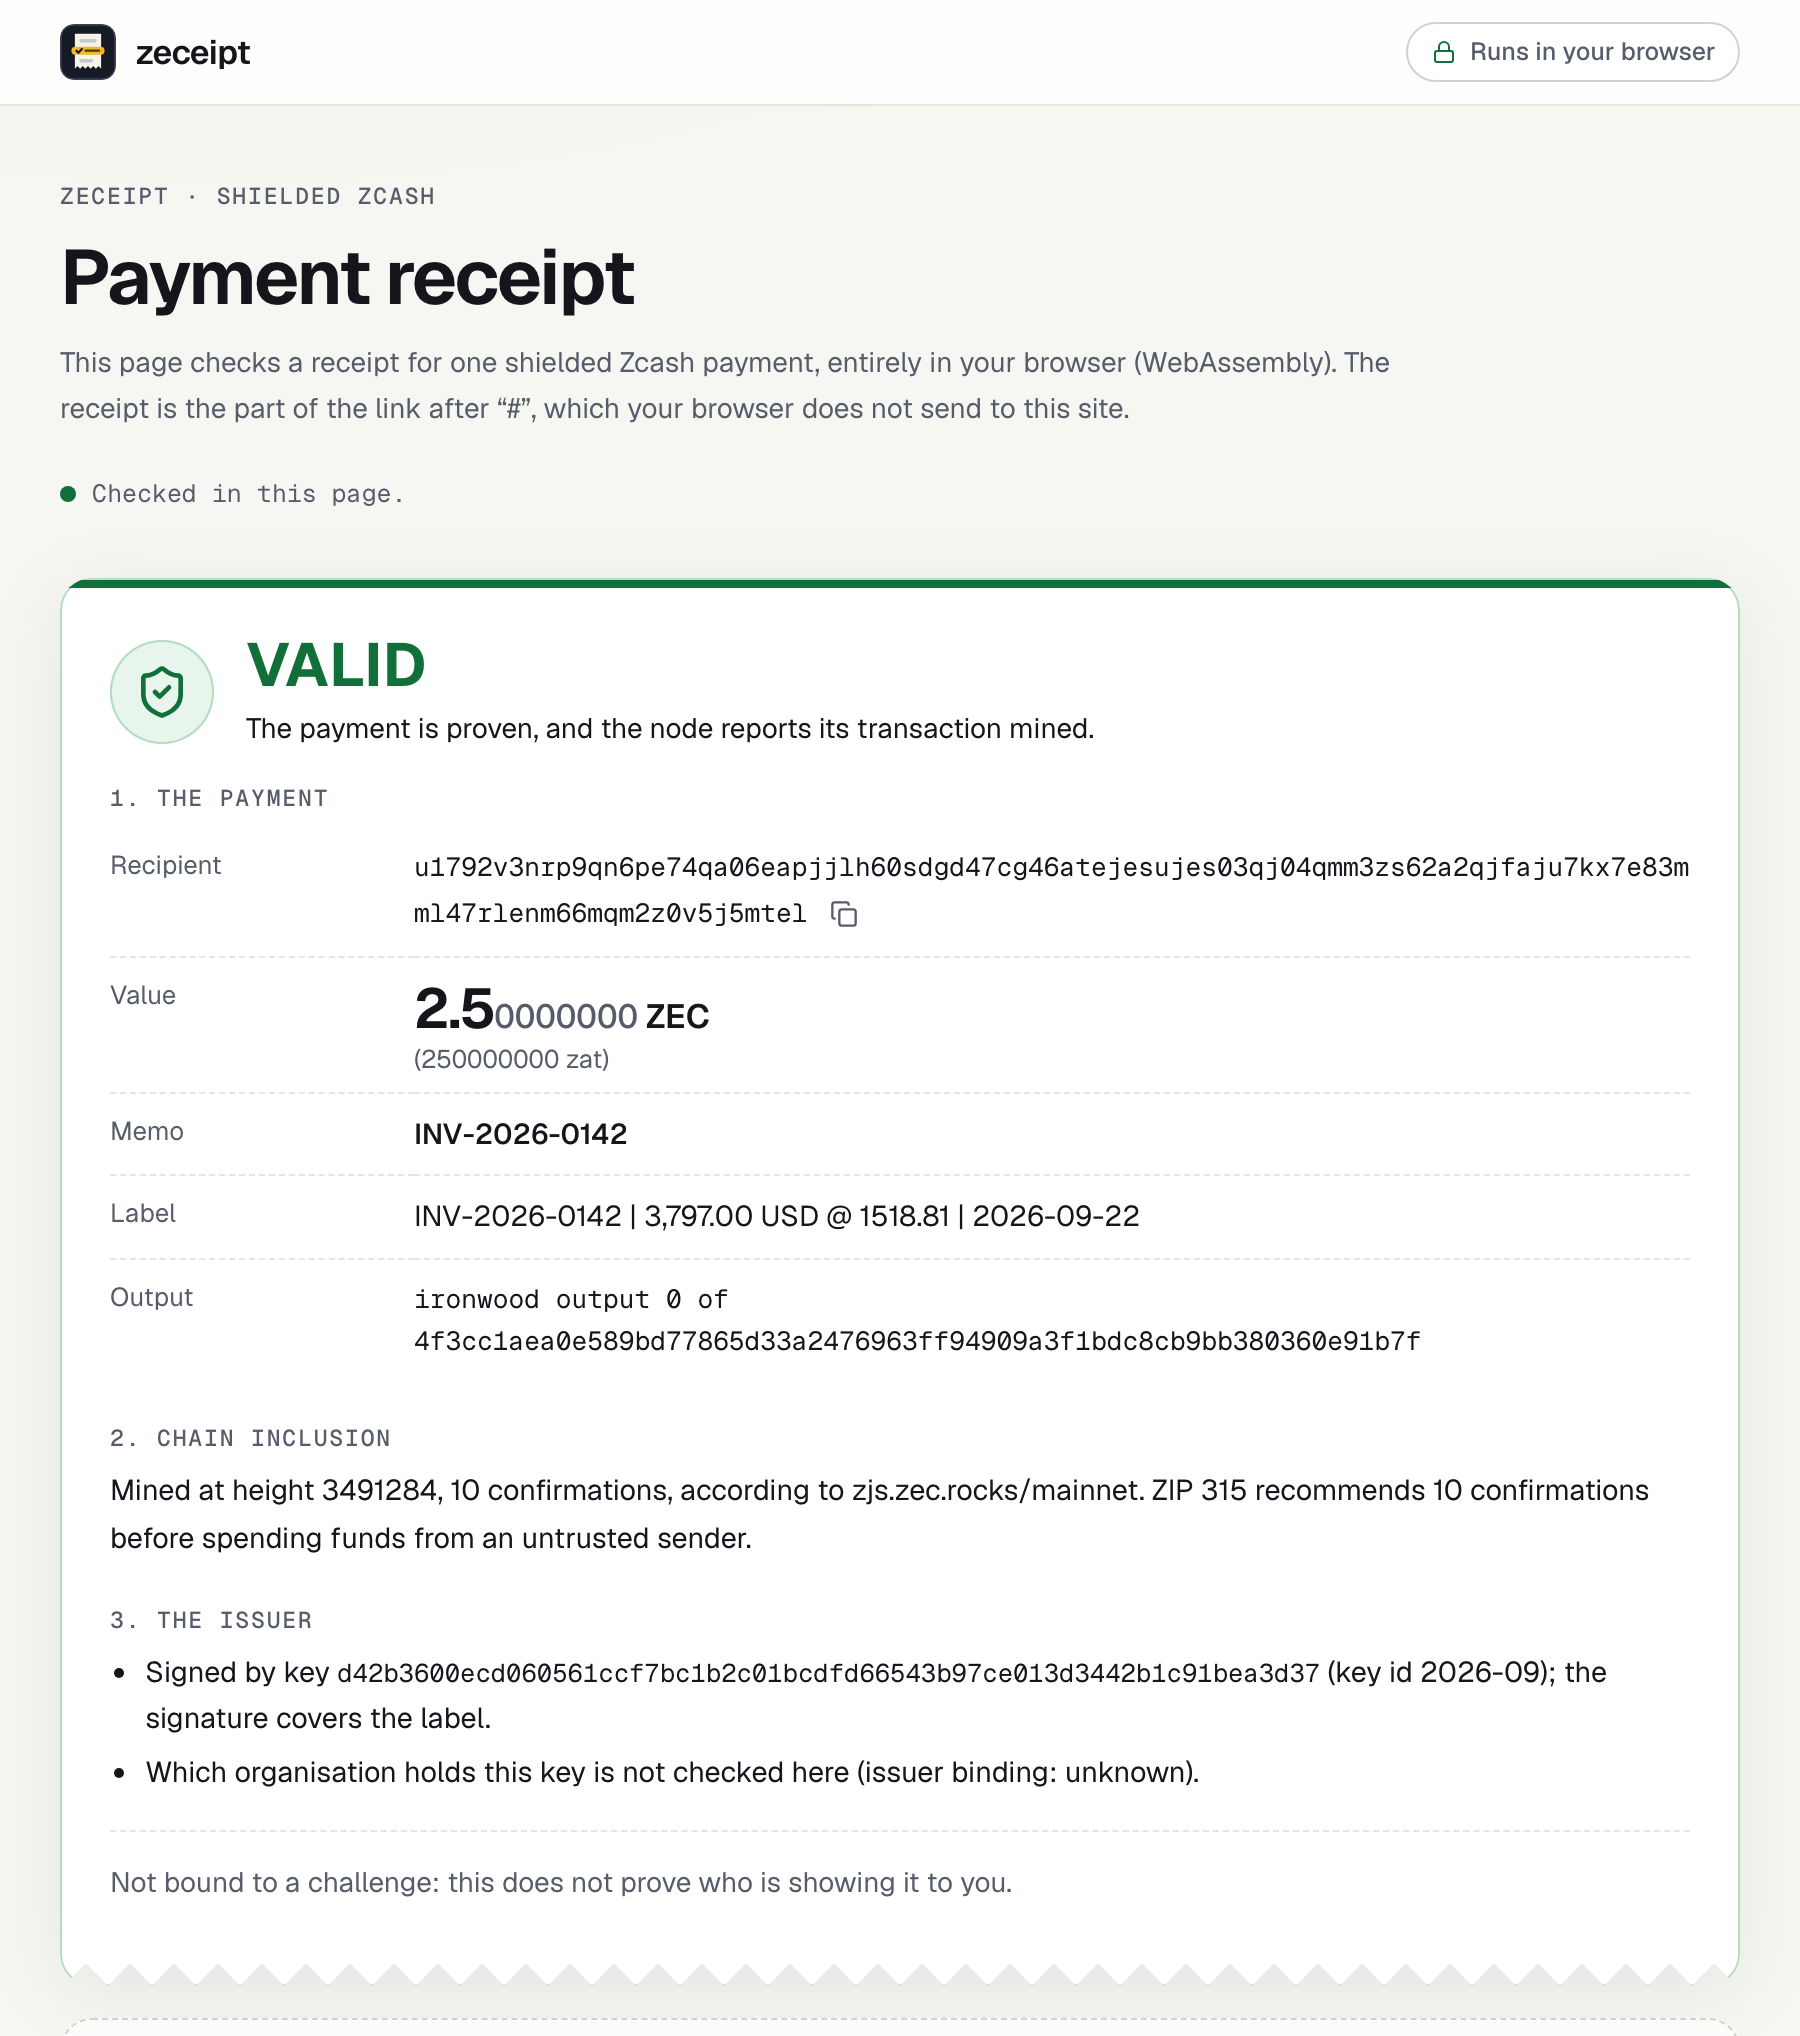
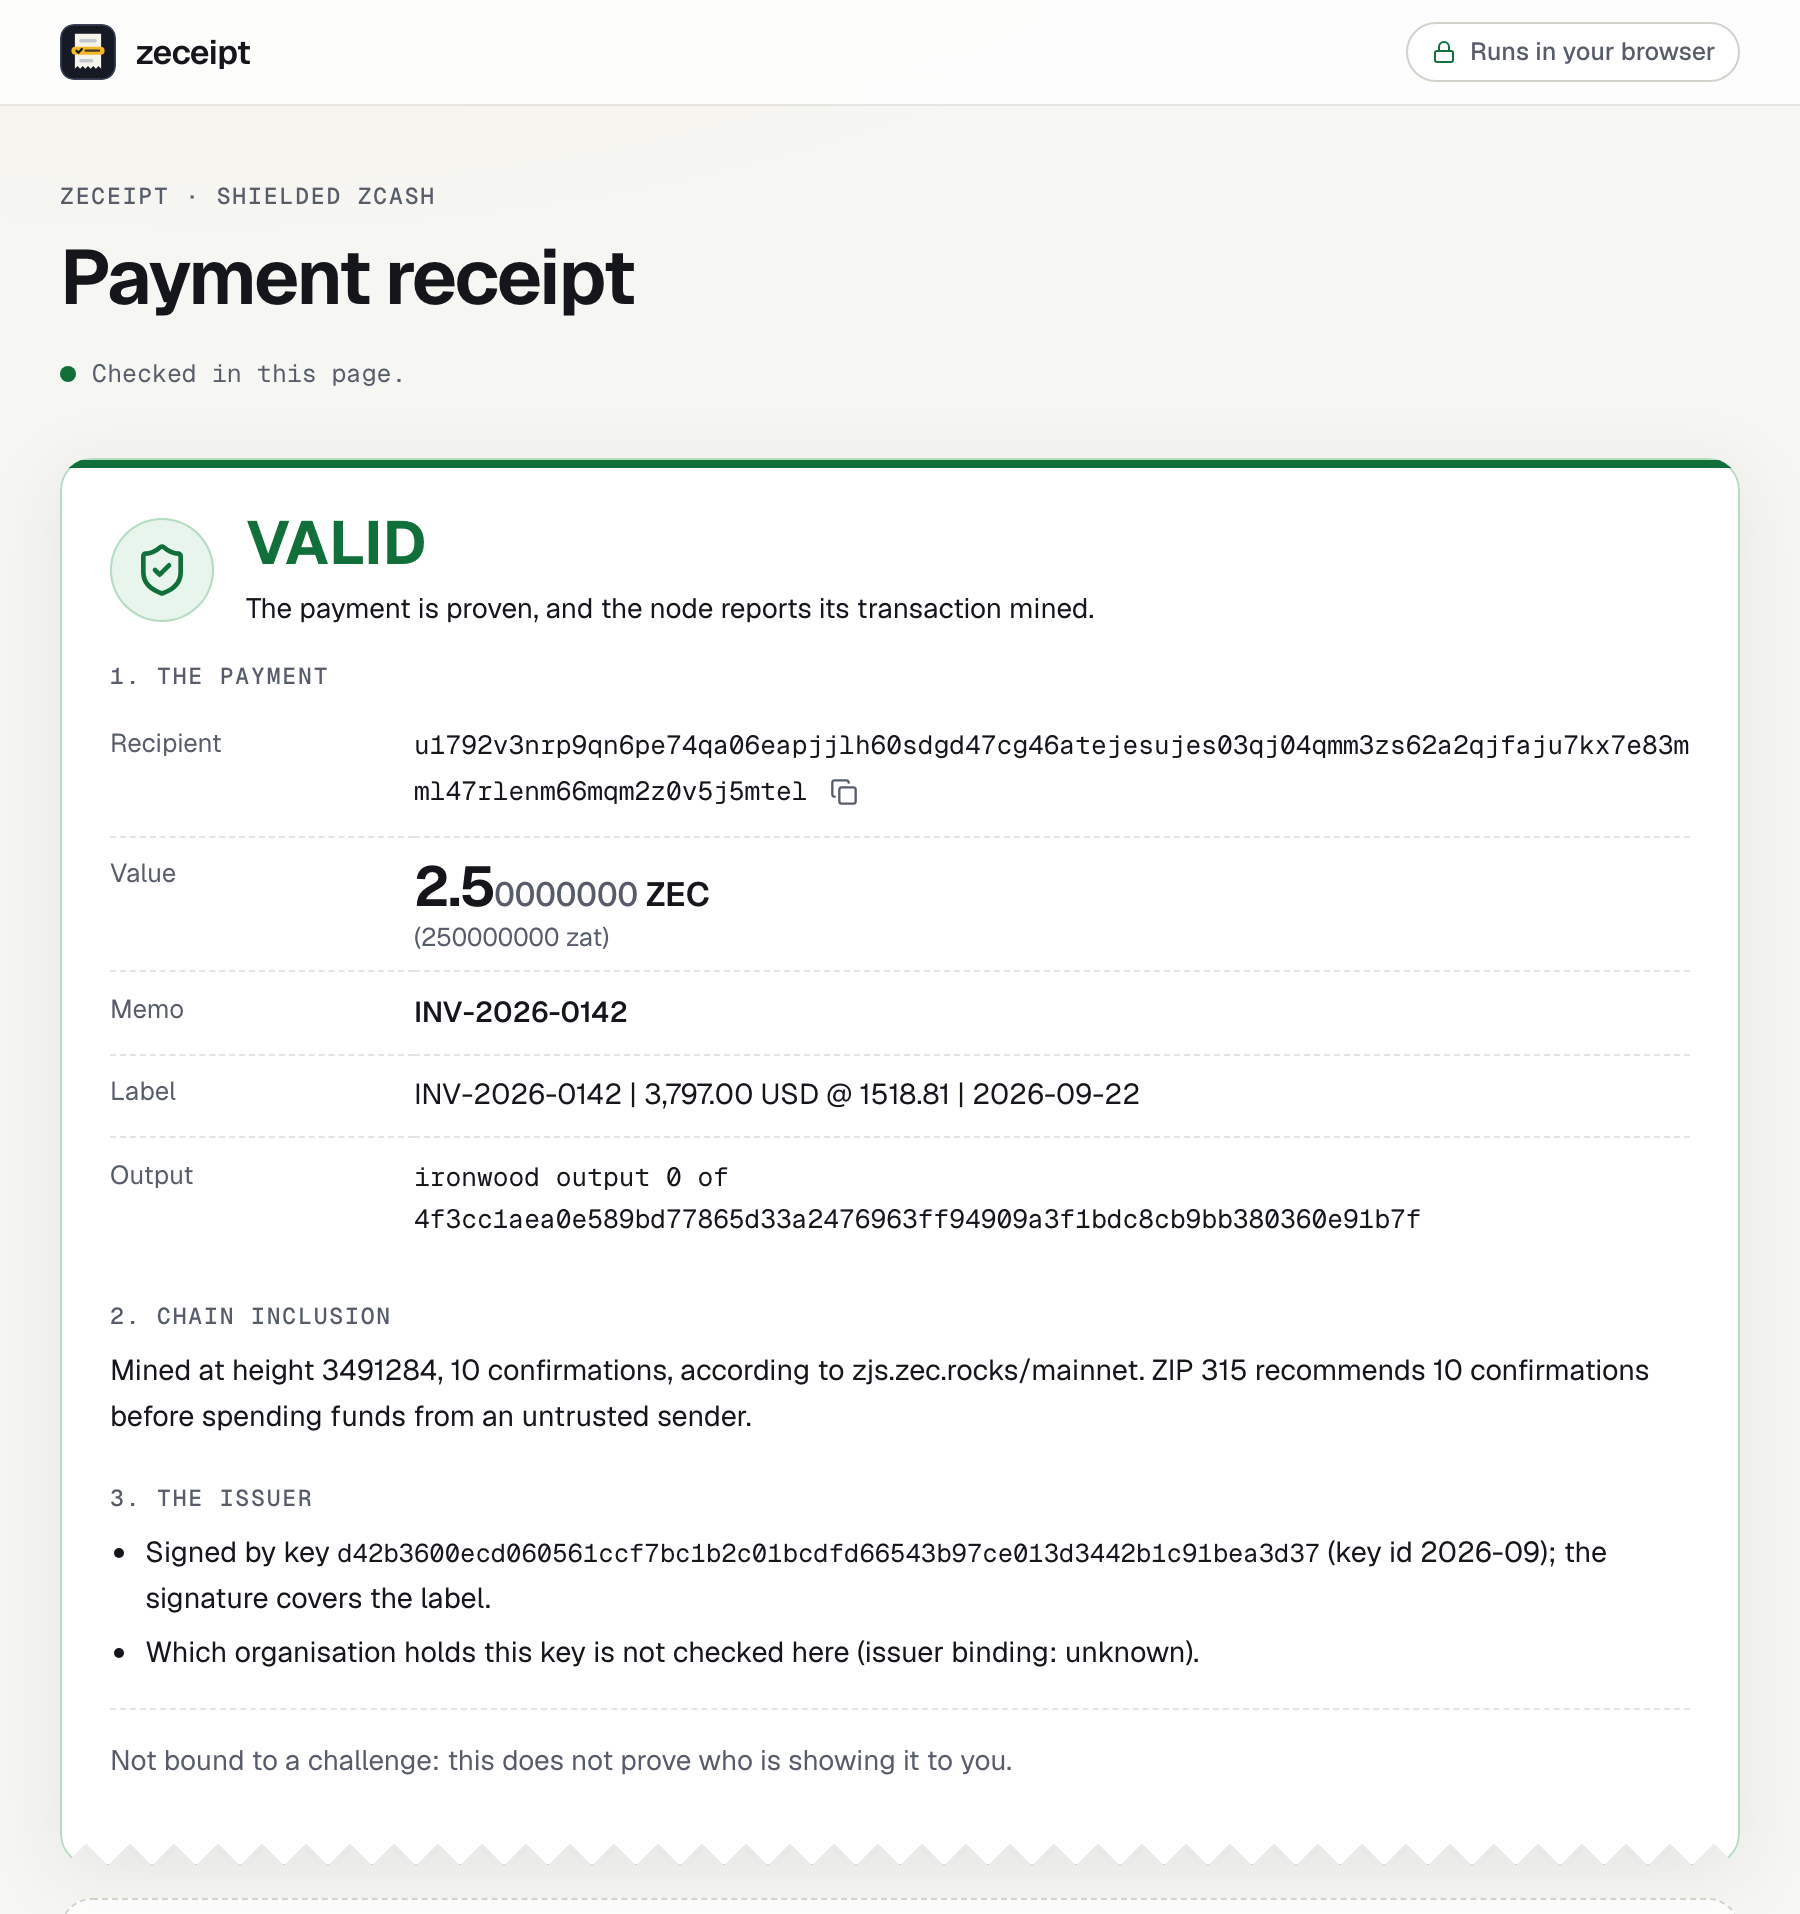
F round 5: named only while scrolling, a printed cut line, exact sample wording
- TableCard adds and removes aria-label together with role and tabindex
  (a plain div may not be named; each table keeps its caption)
- Print: the slip ends in a dashed cut line (the white teeth vanished on
  white paper); still one page
- One chevron for every disclosure (the node note now matches the claims
  fold and the console panels)
- view.js: a "sample" source ("the synthetic sample, which is on no chain")
  for the demo's sample button; verify.mjs checks it
- Once a result shows: the lede hides and "Transaction fetched/loaded"
  hides, so the verdict sits higher and nothing is said twice
- Payables filter: tighter pills on phones (all five fit at 390 px) and
  the table cards' scroll shadows (.scroll-shadows)

diff --git a/packages/verify/r/page.css b/packages/verify/r/page.css
@@ -196,17 +196,14 @@ h1 { margin: 0; font-size: clamp(1.8rem, 1.2rem + 2.2vw, 2.4rem); font-weight: 6
 .pill.tone-danger { color: var(--danger); background: var(--danger-soft); border-color: var(--danger-line); }
 /* A link with no receipt, or not a receipt at all: what a valid result proves is beside the point (review F round 3). */
 body[data-state="empty"] .scope, body[data-state="unreadable"] .scope { display: none; }
+/* Once a result is shown, the intro has done its job: the verdict moves up (review F round 5). */
+body[data-state="checked"] .lede { display: none; }
 .verdict-detail { margin-top: 0.75rem; font-family: var(--mono); font-size: 0.75rem; color: var(--muted); overflow-wrap: anywhere; }
 /* What the receipt claims: not a verdict, so a quieter, dashed frame */
 .claims { border-style: dashed; border-color: var(--line-strong); box-shadow: none; background: color-mix(in srgb, var(--surface) 70%, transparent); }
 /* Once checked, the claims fold away (page.js): the verdict above already says them. */
 details.claims > summary { cursor: pointer; list-style: none; margin-bottom: 0; }
 details.claims > summary::-webkit-details-marker { display: none; }
-details.claims > summary h2::after {
-  content: ""; display: inline-block; width: 0.45rem; height: 0.45rem; margin: 0 0 0.2rem 0.6rem;
-  border-right: 1.5px solid var(--muted); border-bottom: 1.5px solid var(--muted); transform: rotate(-45deg); transition: transform 150ms ease;
-}
-details.claims[open] > summary h2::after { transform: rotate(45deg); }
 details.claims[open] > summary { margin-bottom: 0.6rem; }
 table.kv tr[data-failed] td { color: var(--danger); font-weight: 550; }
 table.kv tr[data-failed] td:first-child::after { content: " · did not match"; font-weight: 500; }
@@ -283,8 +280,12 @@ input[type="file"]::file-selector-button:hover { background: var(--surface-2); }
 .note { padding-left: 0.9rem; border-left: 2px solid var(--line-strong); font-size: 0.8125rem; }
 .source-more > summary { cursor: pointer; width: fit-content; font-size: 0.8125rem; color: var(--muted); list-style: none; }
 .source-more > summary::-webkit-details-marker { display: none; }
-.source-more > summary::after { content: " +"; }
-.source-more[open] > summary::after { content: " −"; }
+.source-more > summary::after, details.claims > summary h2::after {
+  content: ""; display: inline-block; width: 0.45rem; height: 0.45rem; margin: 0 0 0.2rem 0.6rem;
+  border-right: 1.5px solid var(--muted); border-bottom: 1.5px solid var(--muted); transform: rotate(-45deg); transition: transform 150ms ease;
+}
+.source-more > summary::after { width: 0.4rem; height: 0.4rem; margin-bottom: 0.1rem; }
+.source-more[open] > summary::after, details.claims[open] > summary h2::after { transform: rotate(45deg); }
 /* Once checked, the transaction's source is a detail: a compact card (page.js sets data-checked). */
 .source[data-checked] { padding-top: 0.9rem; padding-bottom: 0.9rem; }
 .source[data-checked] h2 { font-size: 0.9rem; margin-bottom: 0.4rem; }
@@ -395,8 +396,14 @@ input[type="file"]::file-selector-button:hover { background: var(--surface-2); }
   /* The transaction's source is how you checked, not what you print. */
   #receipt > .card:not(.claims) { display: none !important; }
   .card, #outcome { box-shadow: none; }
-  /* No shadow on paper; a transparent filter keeps the slip composited, so its torn-edge mask prints. */
-  .slip-wrap { filter: drop-shadow(0 0 0 transparent) !important; }
+  /* On paper the white teeth vanish into the white page, so the slip ends in a dashed cut line instead. */
+  .slip-wrap { filter: none !important; }
+  .slip-wrap #outcome:is(.ok, .pending) {
+    -webkit-mask: none; mask: none;
+    padding-bottom: 1.35rem;
+    border-bottom: 2px dashed var(--line-strong);
+    border-radius: var(--radius-xl) var(--radius-xl) 0 0;
+  }
   #outcome, .result { outline: none !important; }
   /* Folded claims (they matched) print as nothing rather than a stub to click. */
   details#claims:not([open]) { display: none !important; }

diff --git a/packages/verify/demo/index.html b/packages/verify/demo/index.html
@@ -90,14 +90,15 @@ initVerifier().then((v) => { status.textContent = "Ready: verification runs in t
 // What a node said about the bytes now in the box: green only if they are exactly what it served and it reports them
 // mined, as on the receipt page; anything pasted or loaded from a file is amber.
 let fetched = null; // { hex, chain, endpoint }: what a node served
-let fromFile = null; // the text of the last file loaded (the sample is one)
+let fromFile = null; // the text of the last file loaded
+let fromSample = null; // the sample transaction's text
 
 // The committed synthetic fixture (not on any chain): a signed receipt and the transaction it opens.
 $("sample").addEventListener("click", async () => {
   const [receipt, raw] = await Promise.all(["fixtures/synthetic-receipt-bearer.json", "fixtures/synthetic-ironwood.hex"].map((f) => fetch(f).then((r) => r.text())));
   $("receipt").value = receipt.trim();
   $("rawtx").value = raw.trim();
-  fromFile = raw.trim();
+  fromSample = raw.trim();
   status.textContent = "Sample loaded: a synthetic transaction, on no chain. Press Verify locally.";
 });
 
@@ -143,7 +144,7 @@ $("verify").addEventListener("click", () => {
   // The page's own view model (r/view.js outcome), so the rows, their order, the numbered parts and the wording are
   // the receipt page's. The source is what put exactly these bytes in the box: a node, a file, or typing/pasting.
   const bytes = $("rawtx").value.trim();
-  const source = fetched && fetched.hex === bytes ? { kind: "node", chain: fetched.chain, endpoint: fetched.endpoint, tip: null } : fromFile === bytes ? { kind: "file" } : { kind: "pasted" };
+  const source = fetched && fetched.hex === bytes ? { kind: "node", chain: fetched.chain, endpoint: fetched.endpoint, tip: null } : fromSample === bytes ? { kind: "sample" } : fromFile === bytes ? { kind: "file" } : { kind: "pasted" };
   const view = outcome(r, source);
   if (!view.valid) { show("bad", "INVALID", view.stageCopy, el("p", "verdict-detail", view.error)); return; }
   const payment = el("table", "kv");

diff --git a/apps/console/app/components/table-card.tsx b/apps/console/app/components/table-card.tsx
@@ -5,7 +5,7 @@ import { useEffect, useRef, type ReactNode } from "react";
 // A data table's card (slice F4). When a table is wider than its card (a phone), the card scrolls sideways: it is a
 // named, focusable region so keyboard users can scroll it, and edge shadows (globals.css .table-card) show that
 // there is more (review F round 3). The server renders it focusable, so it works without JavaScript; once the script
-// runs, a card that does not scroll stops being a Tab stop and a landmark (review F round 4).
+// runs, a card that does not scroll stops being a Tab stop, a landmark and a named element (review F rounds 4 and 5).
 export function TableCard({ label, className = "", children }: { label: string; className?: string; children: ReactNode }) {
   const ref = useRef<HTMLDivElement>(null);
   useEffect(() => {
@@ -13,19 +13,23 @@ export function TableCard({ label, className = "", children }: { label: string; 
     if (!el) return;
     const sync = () => {
       const scrolls = el.scrollWidth > el.clientWidth + 1;
+      // The name goes with the role: a plain div may not carry aria-label (ARIA 1.2; axe aria-prohibited-attr). The
+      // table inside keeps its own <caption> either way (review F round 5).
       if (scrolls) {
         el.setAttribute("tabindex", "0");
         el.setAttribute("role", "region");
+        el.setAttribute("aria-label", label);
       } else {
         el.removeAttribute("tabindex");
         el.removeAttribute("role");
+        el.removeAttribute("aria-label");
       }
     };
     sync();
     const ro = new ResizeObserver(sync);
     ro.observe(el);
     return () => ro.disconnect();
-  }, []);
+  }, [label]);
   return (
     // tabIndex 0: a scrollable region must be reachable by keyboard (WCAG 2.1.1; axe's scrollable-region-focusable).
     <div ref={ref} role="region" aria-label={label} tabIndex={0} className={`table-card ${className}`}>

diff --git a/apps/console/app/payables/page.tsx b/apps/console/app/payables/page.tsx
@@ -45,7 +45,7 @@ export default async function PayablesPage({ searchParams }: { searchParams: Pro
   const byId = new Map(recipients.map((r) => [r.id, r]));
   const tab = (k: PayableKind | undefined, label: string) => (
     <li key={k ?? "all"}>
-      <Link href={k ? `/payables?kind=${k}` : "/payables"} aria-current={k === filter ? "page" : undefined} className={`inline-flex whitespace-nowrap rounded-full px-3 py-1 text-sm font-medium transition-colors ${k === filter ? "bg-primary text-primary-fg" : "text-muted hover:bg-surface-2 hover:text-fg"}`}>
+      <Link href={k ? `/payables?kind=${k}` : "/payables"} aria-current={k === filter ? "page" : undefined} className={`inline-flex whitespace-nowrap rounded-full px-2.5 py-1 text-[0.8125rem] font-medium transition-colors sm:px-3 sm:text-sm ${k === filter ? "bg-primary text-primary-fg" : "text-muted hover:bg-surface-2 hover:text-fg"}`}>
         {label}
       </Link>
     </li>
@@ -64,7 +64,7 @@ export default async function PayablesPage({ searchParams }: { searchParams: Pro
         }
       />
       <nav aria-label="Filter by kind">
-        <ul className="inline-flex max-w-full gap-1 overflow-x-auto rounded-full border border-line bg-surface p-1 shadow-card">
+        <ul className="scroll-shadows inline-flex max-w-full gap-0.5 overflow-x-auto rounded-full border border-line p-1 shadow-card sm:gap-1">
           {tab(undefined, "All")}
           {PAYABLE_KINDS.map((k) => tab(k, KIND[k].many))}
         </ul>

diff --git a/packages/verify/r/page.js b/packages/verify/r/page.js
@@ -44,6 +44,7 @@ function render() {
   clearOutcome();
   for (const id of ["empty", "unreadable", "receipt"]) show(id, false);
   delete document.body.dataset.state;
+  $("source-status").hidden = false;
   const link = location.hash;
   if (link.length <= 1) { current = null; show("empty", true); document.body.dataset.state = "empty"; return; }
   let receipt;
@@ -128,6 +129,9 @@ function verifyNow() {
   $("source-card").dataset.checked = "";
   $("source-more").open = false;
   $("status").textContent = "Checked in this page.";
+  document.body.dataset.state = "checked";
+  // "Transaction fetched." only repeats the source card's state once the result is shown (review F round 5).
+  if (/^Transaction (fetched|loaded)/.test($("source-status").textContent)) $("source-status").hidden = true;
   $("status").dataset.state = "checked";
   show("outcome", true);
   $("outcome").focus({ preventScroll: true });

diff --git a/packages/verify/r/view.js b/packages/verify/r/view.js
@@ -60,6 +60,10 @@ export function inclusion(source) {
   if (source.kind === "file") {
     return { state: "unknown", text: "Unknown: the transaction was loaded from a file. Check the txid on an explorer or your own node." };
   }
+  if (source.kind === "sample") {
+    // The paste demo's sample (review F round 5): the committed synthetic transaction, which is on no chain.
+    return { state: "unknown", text: "Unknown: this is the synthetic sample, which is on no chain." };
+  }
   if (source.kind === "pasted") {
     // The paste demo (review F round 4): bytes typed or pasted into the page, not fetched and not from a file.
     return { state: "unknown", text: "Unknown: the transaction bytes were supplied on this page, not fetched from a node. Check the txid on an explorer or your own node." };

diff --git a/apps/console/app/globals.css b/apps/console/app/globals.css
@@ -511,8 +511,11 @@
     box-shadow: var(--shadow-card);
     padding: 0.25rem 1.25rem 0.5rem;
     overflow-x: auto;
-    /* Scroll shadows: covers that move with the content hide edge shadows that stay put, so an edge shows a shadow
-       only while there is more table beyond it (no script). */
+  }
+  /* Scroll shadows (table cards, the payables filter): covers that move with the content hide edge shadows that stay
+     put, so an edge shows a shadow only while there is more beyond it (no script). */
+  .table-card,
+  .scroll-shadows {
     background:
       linear-gradient(to right, var(--surface) 40%, transparent) left center / 2.5rem 100% no-repeat local,
       linear-gradient(to left, var(--surface) 40%, transparent) right center / 2.5rem 100% no-repeat local,
